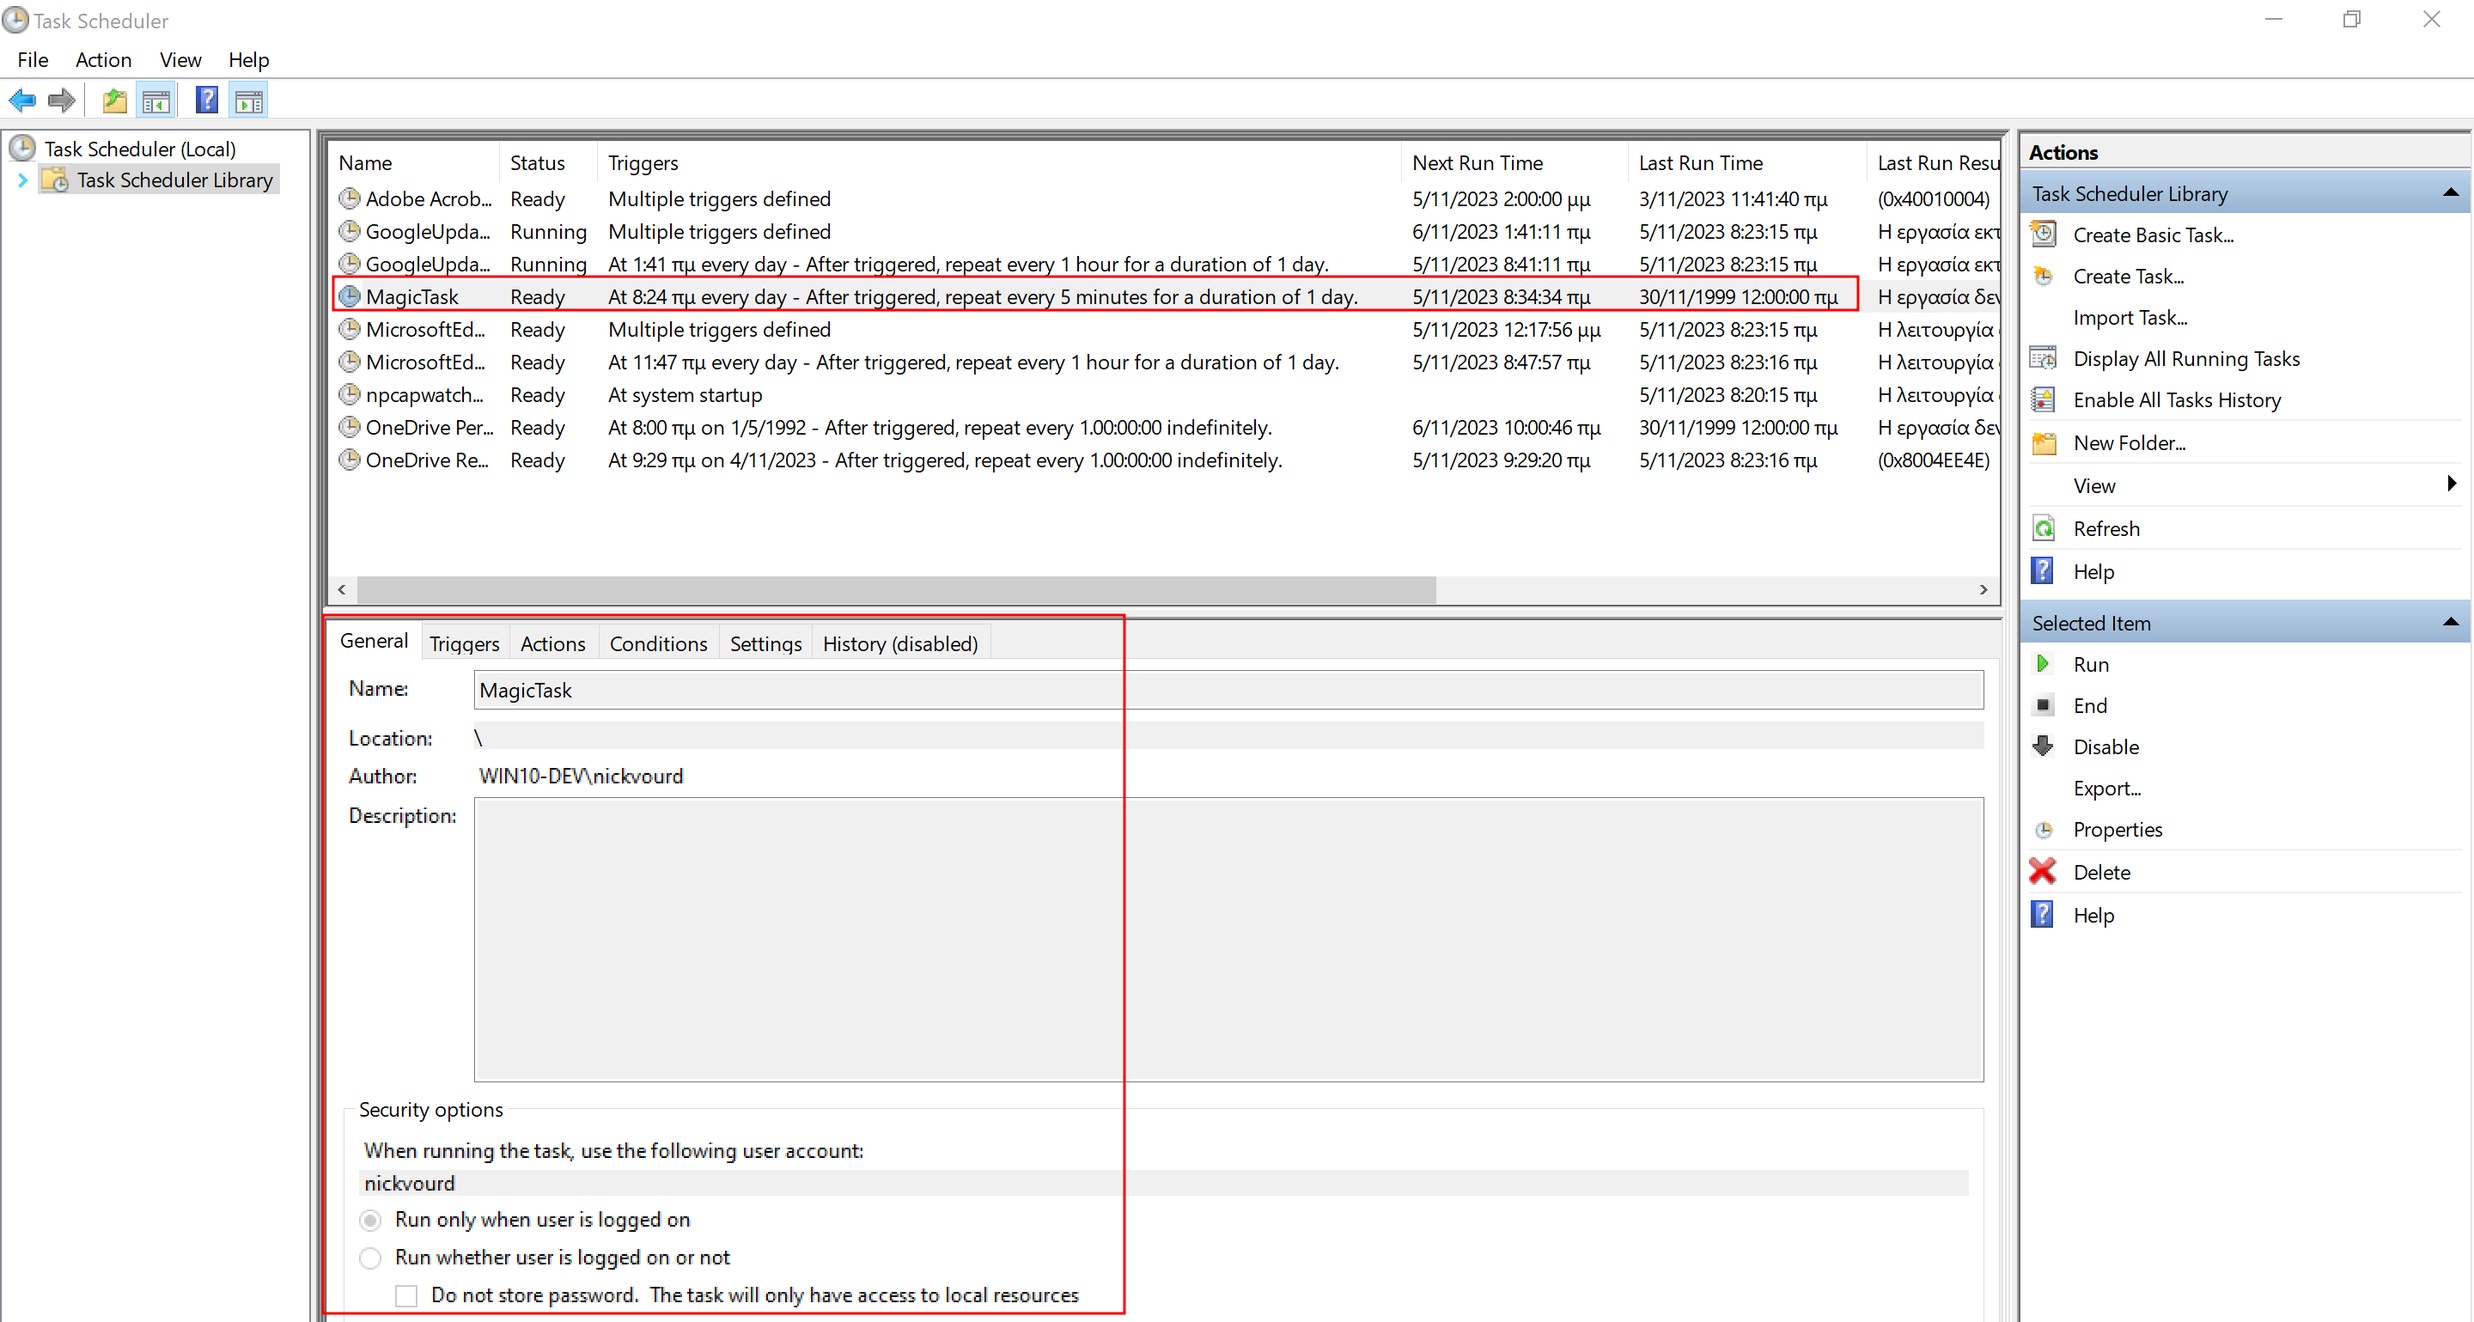
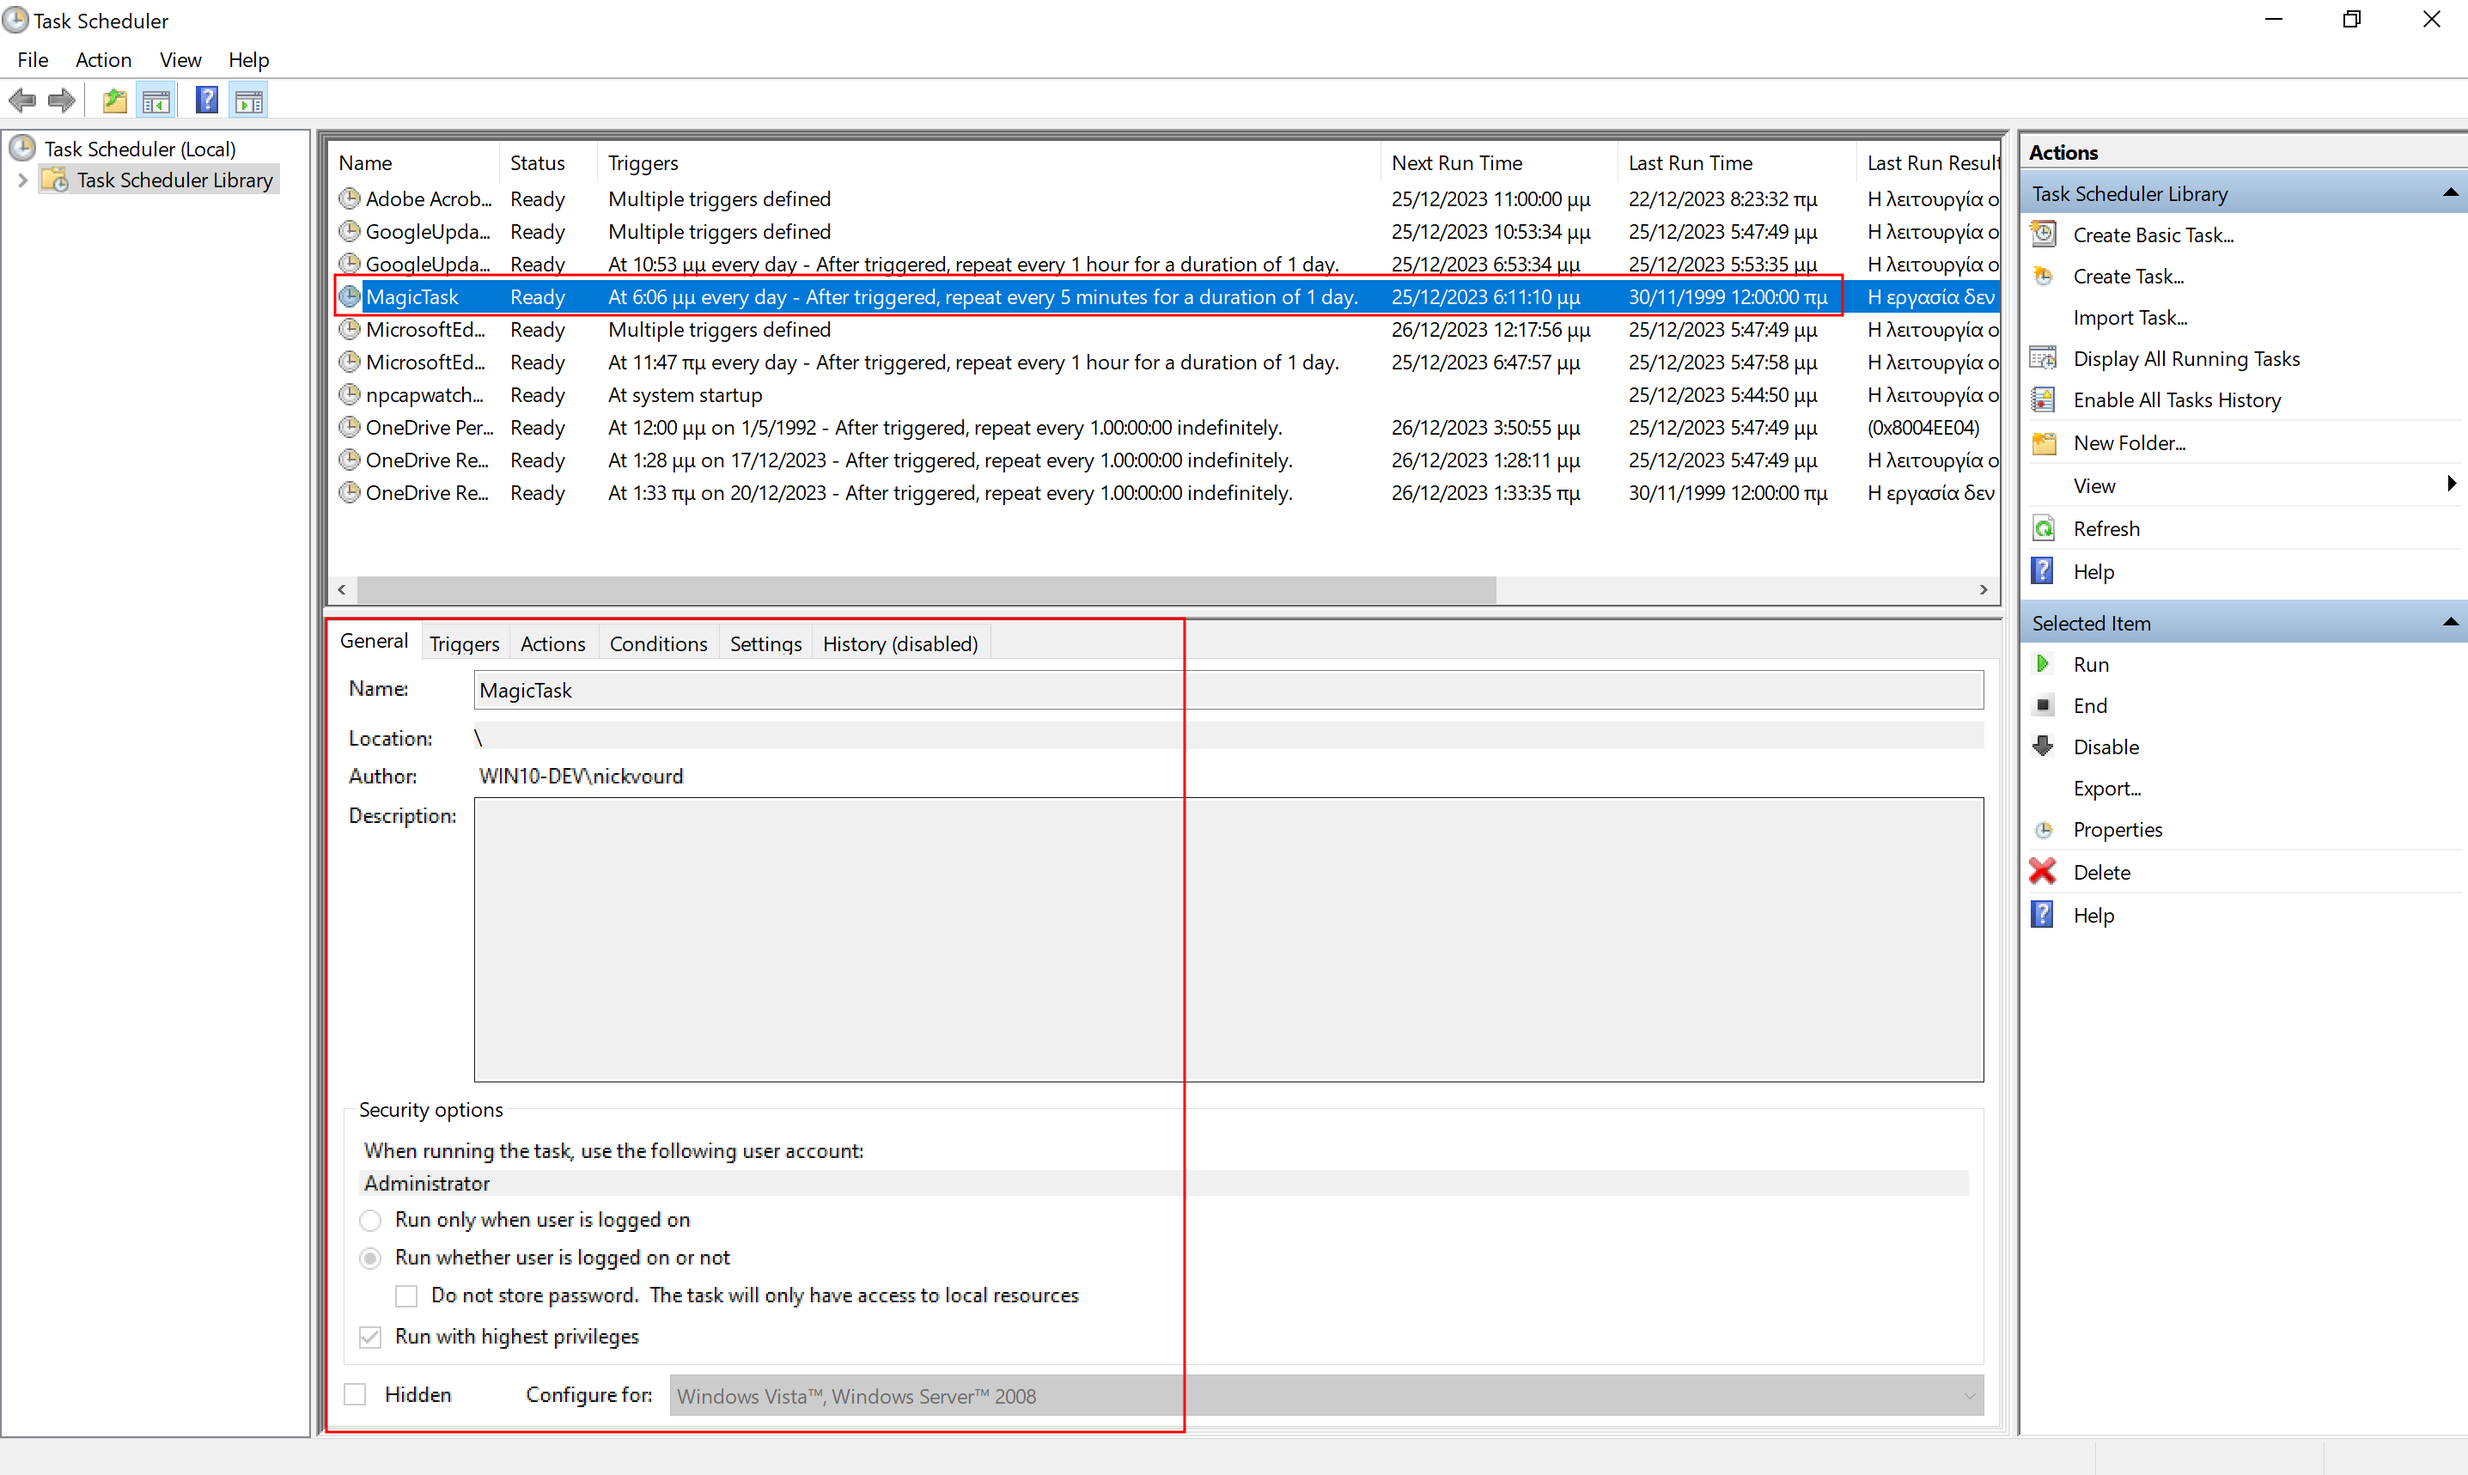
Edit Task Sceduler

Changed region(s): [[0.0, 0.0, 1.0, 1.0], [0.9913, 0.3119, 1.0, 0.3743], [0.4337, 0.5302, 0.4956, 0.5614]]

diff --git a/Notes/ScheduledTaskJob.md b/Notes/ScheduledTaskJob.md
@@ -25,7 +25,11 @@ Attackers can exploit pre-configured tasks associated with privileged accounts t
 
 :warning: <b>If you are using Windows 10/11 to proceed with this scenario, the local Administrator account needs to be enabled. I have created a PowerShell script named [EnableLocalAdmin.ps1](/Lab-Setup-Scripts/EnableLocalAdmin.ps1), designed to enable the local Administrator account and set a password. Please run this script with elevated privileges.</b>
 
-1) Create a folder named 'Jobs' in the C:\ directory.
+1) Open a Command Prompt with local Administrator privileges and run the following command to create a folder named 'Jobs' in the 'C:\' directory:
+
+```
+mkdir C:\Jobs
+```
 
 2) Download the file [Monitor_AMD64.exe](/Lab-Setup-Binary/Monitor_AMD64.exe) to the 'C:\Jobs' directory.
 
@@ -45,7 +49,7 @@ Outcome:
 
 ![Create-A-New-Task](/Pictures/Taskscheduler-2.png)
 
-6) Assign a task to the logged-in user to be executed with the highest privileges:
+6) Assign a task to the local Administrator to be executed with the highest privileges:
 
 ![Create-A-New-Task-2](/Pictures/Taskscheduler-3.png)
 
